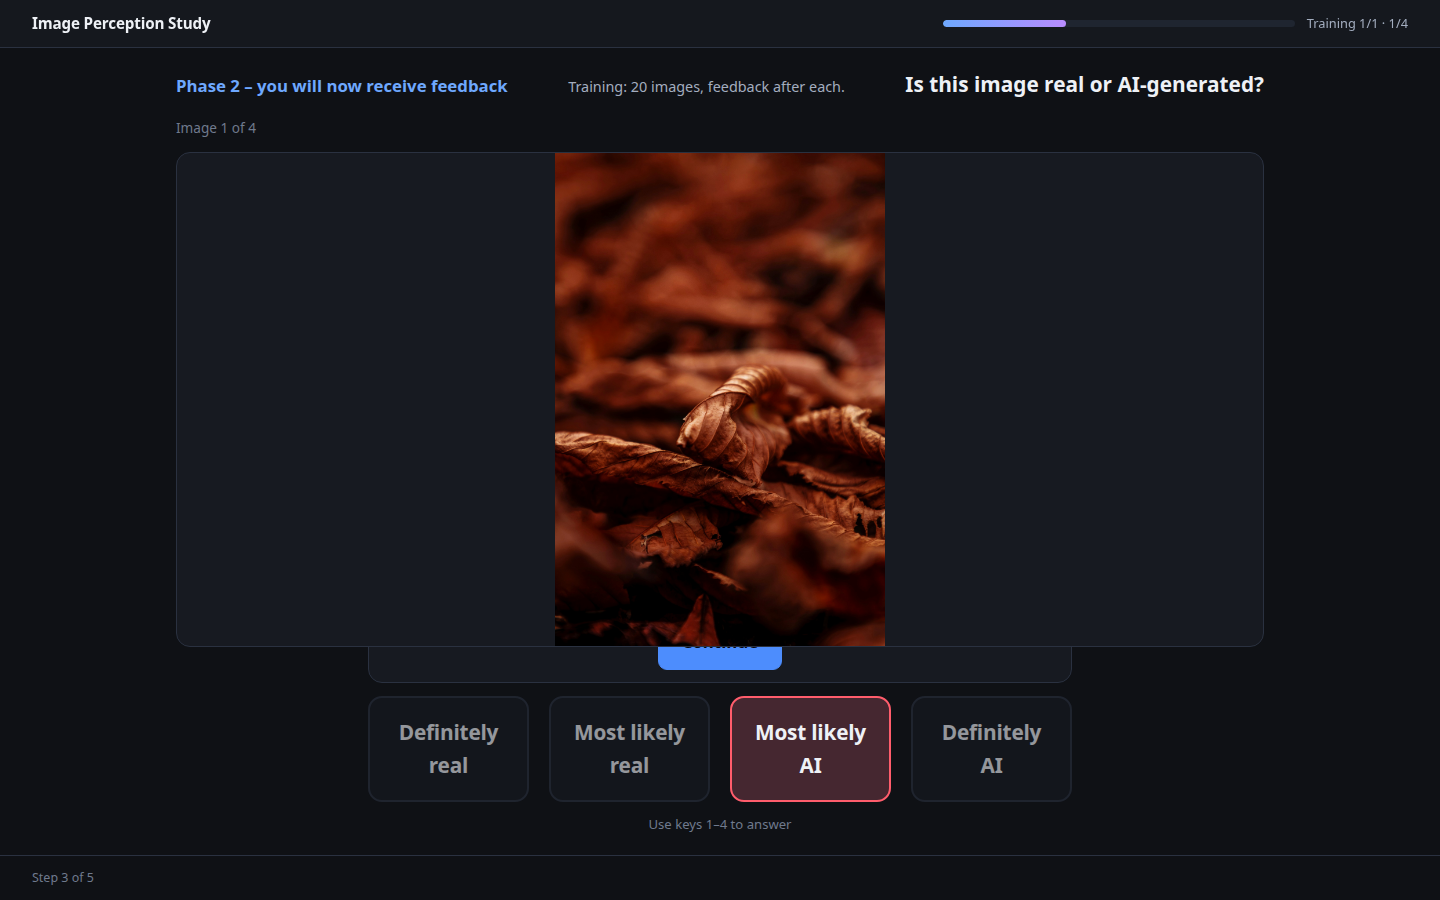
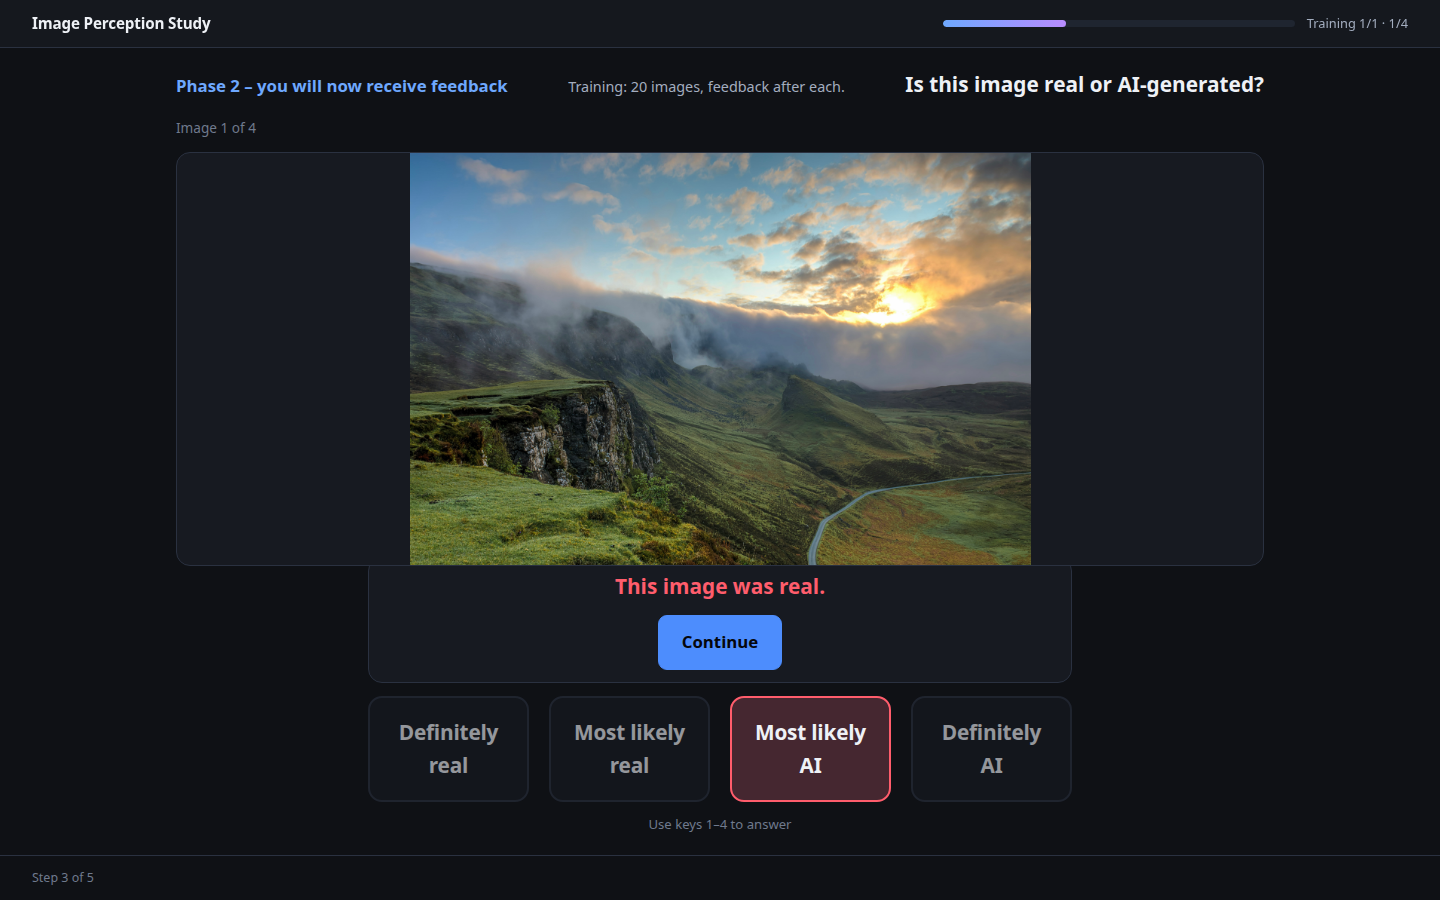
Fix layout so Phase 2 result+feedback panel is clearly visible; recapture screenshot

Changed region(s): [[0.2812, 0.1556, 0.7188, 0.7467]]

diff --git a/css/styles.css b/css/styles.css
@@ -420,7 +420,7 @@ legend { font-weight: 600; font-size: .9rem; padding-inline: .35rem; }
 .trial {
   flex: 1;
   display: grid;
-  grid-template-rows: auto minmax(0, 1fr) auto;
+  grid-template-rows: auto minmax(0, 1fr) auto auto;
   gap: clamp(.6rem, 1.5vh, 1.1rem);
   width: 100%;
   max-width: 68rem;
@@ -448,8 +448,8 @@ legend { font-weight: 600; font-size: .9rem; padding-inline: .35rem; }
 
 .trial__stage {
   min-height: 0;
-  height: 55vh;
-  max-height: 60vh;
+  height: 46vh;
+  max-height: 50vh;
   display: grid;
   place-items: center;
   background: var(--bg-elev);
@@ -461,7 +461,7 @@ legend { font-weight: 600; font-size: .9rem; padding-inline: .35rem; }
 
 .trial__img {
   max-width: 100%;
-  max-height: 55vh;
+  max-height: 46vh;
   width: auto;
   height: auto;
   object-fit: contain;
